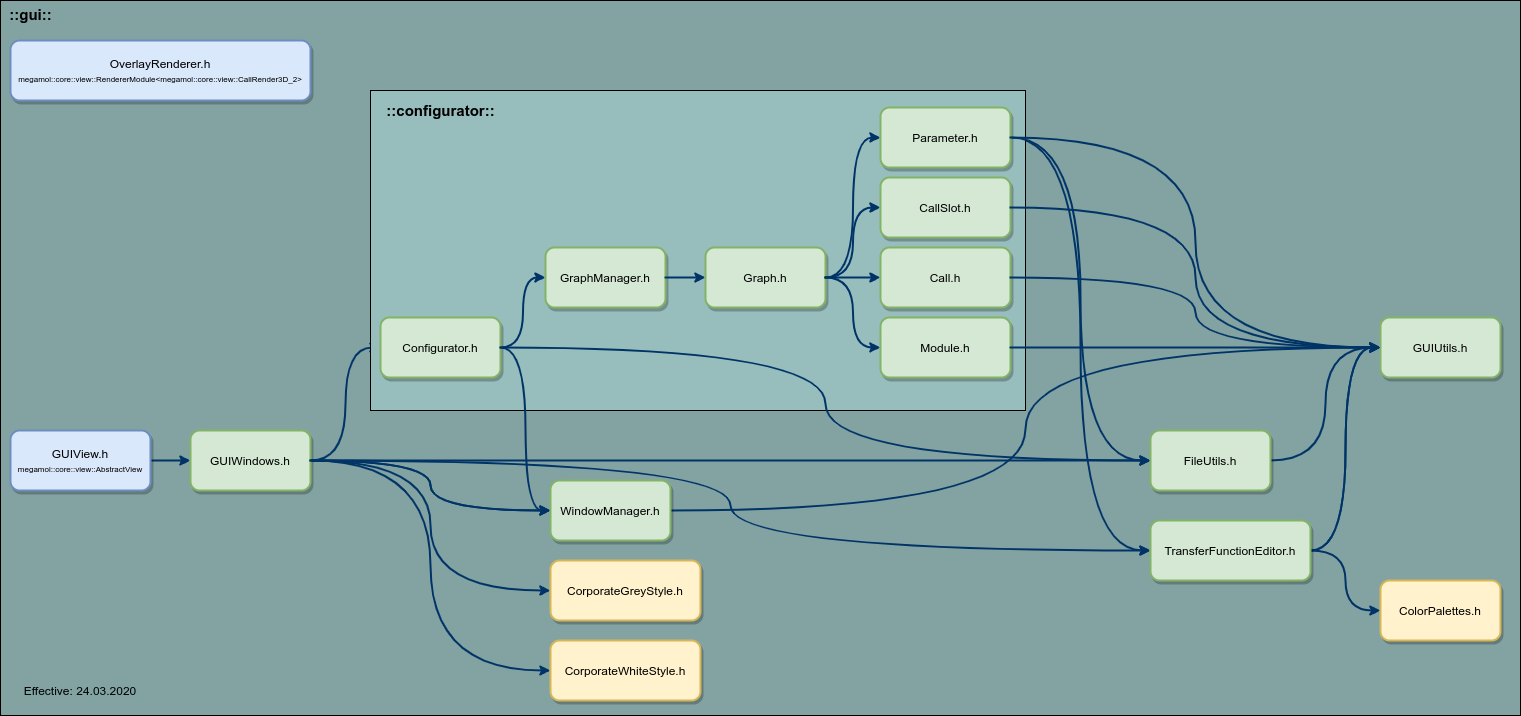
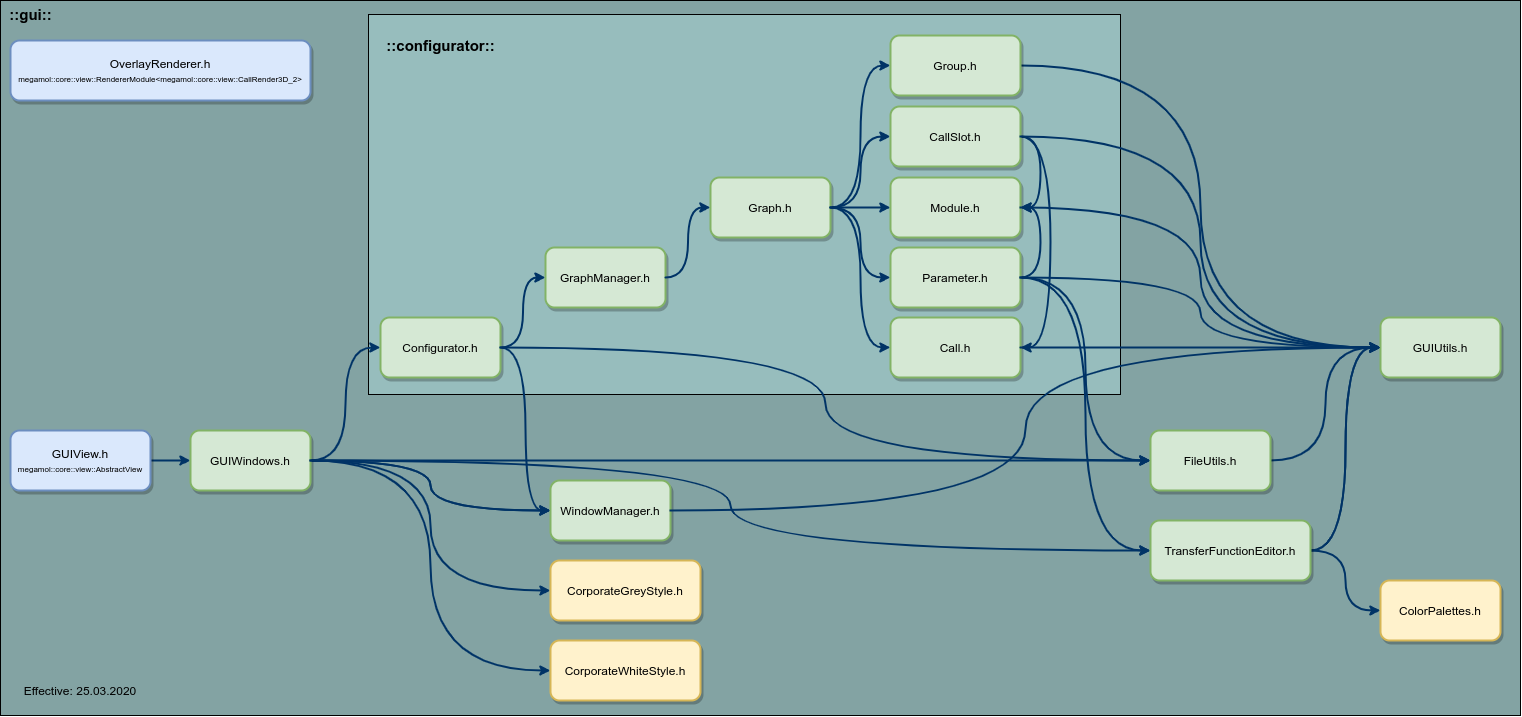
added initial empty group files, added some dummy grouping context menues

diff --git a/plugins/gui/src/configurator/GraphManager.cpp b/plugins/gui/src/configurator/GraphManager.cpp
@@ -462,9 +462,9 @@ bool megamol::gui::configurator::GraphManager::LoadAddProjectFile(
                 std::string view_instance = args[0];
                 std::string view_class_name = args[1];
                 std::string view_full_name = args[2];
-                std::string view_name_prefix;
+                std::string view_name_namespace;
                 std::string view_name;
-                if (!this->separateNameAndPrefix(view_full_name, view_name_prefix, view_name)) {
+                if (!this->separateNameAndNamespace(view_full_name, view_name_namespace, view_name)) {
                     vislib::sys::Log::DefaultLog.WriteError("Project File '%s' line %i: Invalid view name argument "
                                                             "(3rd) in lua command '%s'. [%s, %s, line %d]\n",
                         project_filename.c_str(), i, lua_view.c_str(), __FILE__, __FUNCTION__, __LINE__);
@@ -513,7 +513,7 @@ bool megamol::gui::configurator::GraphManager::LoadAddProjectFile(
                 }
                 auto graph_module = graph_ptr->GetGraphModules().back();
                 graph_module->name = view_name;
-                graph_module->name_space = view_name_prefix;
+                graph_module->name_space = view_name_namespace;
                 graph_module->is_view_instance = true;
                 graph_module->GUI_SetPosition(module_pos);
 
@@ -542,9 +542,9 @@ bool megamol::gui::configurator::GraphManager::LoadAddProjectFile(
 
                 std::string module_class_name = args[0];
                 std::string module_full_name = args[1];
-                std::string module_name_prefix;
+                std::string module_name_namespace;
                 std::string module_name;
-                if (!this->separateNameAndPrefix(module_full_name, module_name_prefix, module_name)) {
+                if (!this->separateNameAndNamespace(module_full_name, module_name_namespace, module_name)) {
                     vislib::sys::Log::DefaultLog.WriteError("Project File '%s' line %i: Invalid module name argument "
                                                             "(2nd) in lua command '%s'. [%s, %s, line %d]\n",
                         project_filename.c_str(), i, lua_module.c_str(), __FILE__, __FUNCTION__, __LINE__);
@@ -579,7 +579,7 @@ bool megamol::gui::configurator::GraphManager::LoadAddProjectFile(
                     }
                     auto graph_module = graph_ptr->GetGraphModules().back();
                     graph_module->name = module_name;
-                    graph_module->name_space = module_name_prefix;
+                    graph_module->name_space = module_name_namespace;
                     graph_module->is_view_instance = false;
                     graph_module->GUI_SetPosition(module_pos);
                 }
@@ -605,16 +605,16 @@ bool megamol::gui::configurator::GraphManager::LoadAddProjectFile(
                 std::string callee_slot_full_name = args[2];
 
                 std::string caller_slot_name;
-                std::string caller_slot_prefix;
-                if (!this->separateNameAndPrefix(caller_slot_full_name, caller_slot_prefix, caller_slot_name)) {
+                std::string caller_slot_namespace;
+                if (!this->separateNameAndNamespace(caller_slot_full_name, caller_slot_namespace, caller_slot_name)) {
                     vislib::sys::Log::DefaultLog.WriteError("Project File '%s' line %i: Invalid caller slot name "
                                                             "argument (2nd) in lua command '%s'. [%s, %s, line %d]\n",
                         project_filename.c_str(), i, lua_call.c_str(), __FILE__, __FUNCTION__, __LINE__);
                 }
 
                 std::string callee_slot_name;
-                std::string callee_slot_prefix;
-                if (!this->separateNameAndPrefix(callee_slot_full_name, callee_slot_prefix, callee_slot_name)) {
+                std::string callee_slot_namespace;
+                if (!this->separateNameAndNamespace(callee_slot_full_name, callee_slot_namespace, callee_slot_name)) {
                     vislib::sys::Log::DefaultLog.WriteError("Project File '%s' line %i: Invalid callee slot name "
                                                             "argument (3nd) in lua command '%s'. [%s, %s, line %d]\n",
                         project_filename.c_str(), i, lua_call.c_str(), __FILE__, __FUNCTION__, __LINE__);
@@ -1258,15 +1258,24 @@ std::string megamol::gui::configurator::GraphManager::writeLuaProjectConfPos(con
 }
 
 
-bool megamol::gui::configurator::GraphManager::separateNameAndPrefix(
+bool megamol::gui::configurator::GraphManager::separateNameAndNamespace(
     const std::string& full_name, std::string& name_space, std::string& name) {
 
     name = full_name;
     name_space = "";
-    size_t delimiter_index = full_name.rfind(':');
+    size_t delimiter_index = full_name.rfind("::");
     if (delimiter_index != std::string::npos) {
-        name = full_name.substr(delimiter_index + 1);
-        name_space = full_name.substr(0, delimiter_index - 1);
+        name = full_name.substr(delimiter_index + 2);
+        name_space = full_name.substr(0, delimiter_index);
+        if (!name_space.empty()) {
+            if (name_space.find("::") == 0) {
+                name_space = name_space.substr(2);
+            } else {
+                 vislib::sys::Log::DefaultLog.WriteError(
+                    "Invalid namespace in argument. [%s, %s, line %d]\n", __FILE__, __FUNCTION__, __LINE__);
+                return false;
+            }
+        }
     }
 
     if (name.empty()) {

diff --git a/plugins/gui/src/configurator/CallSlot.cpp b/plugins/gui/src/configurator/CallSlot.cpp
@@ -347,6 +347,21 @@ void megamol::gui::configurator::CallSlot::Presentation::Present(
         bool hovered = (ImGui::IsItemHovered() && ((interact_state.callslot_hovered_uid == GUI_INVALID_ID) || (interact_state.callslot_hovered_uid == inout_call_slot.uid)));
         bool mouse_clicked = ImGui::IsWindowHovered() && ImGui::GetIO().MouseClicked[0];
 
+        // Context menu
+        if (ImGui::BeginPopupContextItem("invisible_button_context")) {
+            if (ImGui::BeginMenu("Add Group Interface ", false)) {
+                /// TODO
+                // Loop over all exisiting groups
+                //if (ImGui::MenuItem("<group name>"")) {
+                //}     
+                ImGui::EndMenu();
+            }
+            if (ImGui::MenuItem("Remove Group Interface", nullptr, false, false)) {
+                /// TODO
+            }                                
+            ImGui::EndPopup();
+        }
+
         std::string slot_label = "[" + inout_call_slot.name + "]";
         std::string tooltip = inout_call_slot.description;
         if (!this->label_visible) {

diff --git a/plugins/gui/src/configurator/Module.h b/plugins/gui/src/configurator/Module.h
@@ -9,9 +9,9 @@
 #define MEGAMOL_GUI_GRAPH_MODULE_H_INCLUDED
 
 
-#include "CallSlot.h"
 #include "GUIUtils.h"
 #include "Parameter.h"
+#include "CallSlot.h"
 
 
 namespace megamol {
@@ -69,11 +69,16 @@ public:
     const std::vector<CallSlotPtrType>& GetCallSlots(CallSlot::CallSlotType type);
     const std::map<CallSlot::CallSlotType, std::vector<CallSlotPtrType>>& GetCallSlots(void);
 
-    const std::string FullName(void) const { return std::string(this->name_space + "::" + this->name); }
+    const inline std::string FullName(void) const { 
+        std::string fullname = "::" + this->name;
+        if (!this->name_space.empty()) {
+            fullname = "::" + this->name_space + fullname;
+        }
+        return fullname; 
+    }
 
     // GUI Presentation -------------------------------------------------------
 
-    // Returns uid if the module is selected.
     void GUI_Present(
         const CanvasType& in_canvas, HotKeyArrayType& inout_hotkeys, InteractType& interact_state) {
         this->present.Present(*this, in_canvas, inout_hotkeys, interact_state);

diff --git a/plugins/gui/src/configurator/Module.cpp b/plugins/gui/src/configurator/Module.cpp
@@ -238,6 +238,16 @@ void megamol::gui::configurator::Module::Presentation::Present(megamol::gui::con
                 if (ImGui::MenuItem("Rename")) {
                     popup_rename = true;
                 }
+                if (ImGui::BeginMenu("Add Group", false)) {
+                    /// TODO
+                    // Loop over all exisiting groups or add to new one
+                    //if (ImGui::MenuItem("<group name>"")) {
+                    //}                       
+                    ImGui::EndMenu();
+                }
+                if (ImGui::MenuItem("Remove Group", nullptr, false, false)) {
+                    /// TODO
+                }                                
                 ImGui::EndPopup();
             }
             if (active) {

diff --git a/plugins/gui/src/configurator/Call.h b/plugins/gui/src/configurator/Call.h
@@ -60,8 +60,7 @@ public:
     const CallSlotPtrType GetCallSlot(CallSlot::CallSlotType type);
 
     // GUI Presentation -------------------------------------------------------
-
-    // Returns uid if the call is selected.
+    
     void GUI_Present(const CanvasType& in_canvas, HotKeyArrayType& inout_hotkeys, InteractType& interact_state) {
         this->present.Present(*this, in_canvas, inout_hotkeys, interact_state);
     }

diff --git a/plugins/gui/src/configurator/GraphManager.h b/plugins/gui/src/configurator/GraphManager.h
@@ -104,7 +104,7 @@ private:
 
     std::string writeLuaProjectConfPos(const ImVec2& pos);
 
-    bool separateNameAndPrefix(const std::string& full_name, std::string& name_space, std::string& name);
+    bool separateNameAndNamespace(const std::string& full_name, std::string& name_space, std::string& name);
 
     // ------------------------------------------------------------------------
 };

diff --git a/plugins/gui/src/configurator/CallSlot.h b/plugins/gui/src/configurator/CallSlot.h
@@ -74,7 +74,6 @@ public:
 
     // GUI Presentation -------------------------------------------------------
 
-    // Returns uid if the call slot is selected.
     void GUI_Present(const CanvasType& in_canvas, InteractType& interact_state) {
         this->present.Present(*this, in_canvas, interact_state);
     }

diff --git a/plugins/gui/src/configurator/Graph.h b/plugins/gui/src/configurator/Graph.h
@@ -17,6 +17,7 @@
 #include "CallSlot.h"
 #include "Module.h"
 #include "Parameter.h"
+#include "Group.h"
 
 #ifdef GUI_USE_FILESYSTEM
 #    include "FileUtils.h"
